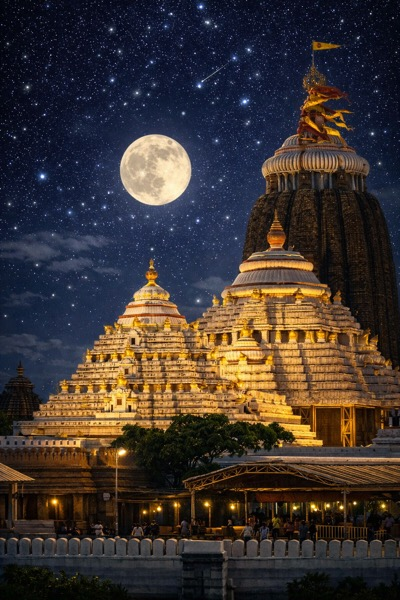
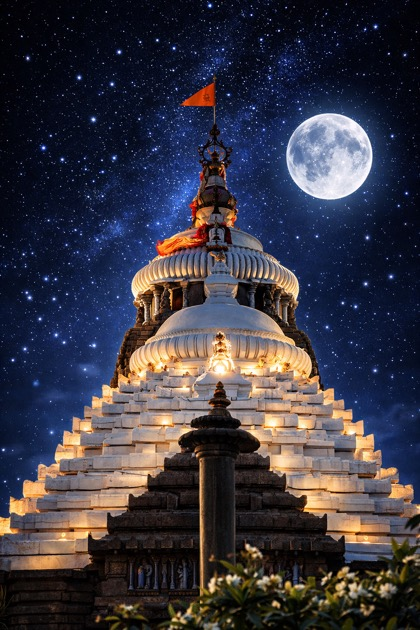
Add compressed og-preview.jpg (114KB) for WhatsApp link preview, update meta tags to use optimized image

diff --git a/invite.html b/invite.html
@@ -11,12 +11,12 @@
 <meta property="og:type" content="website">
 <meta property="og:title" content="Utsav & Ananya's Wedding Invitation">
 <meta property="og:description" content="You are cordially invited to the wedding of Utsav & Ananya — 19th June 2026, Bhubaneswar">
-<meta property="og:url" content="https://utsav1908.github.io/utsav-ananya-wedding/">
-<meta property="og:image" content="https://utsav1908.github.io/utsav-ananya-wedding/jgtemp.png">
-<meta property="og:image:secure_url" content="https://utsav1908.github.io/utsav-ananya-wedding/jgtemp.png">
-<meta property="og:image:type" content="image/png">
-<meta property="og:image:width" content="1024">
-<meta property="og:image:height" content="1536">
+<meta property="og:url" content="https://utsav1908.github.io/utsav-ananya-wedding/invite.html">
+<meta property="og:image" content="https://utsav1908.github.io/utsav-ananya-wedding/og-preview.jpg">
+<meta property="og:image:secure_url" content="https://utsav1908.github.io/utsav-ananya-wedding/og-preview.jpg">
+<meta property="og:image:type" content="image/jpeg">
+<meta property="og:image:width" content="420">
+<meta property="og:image:height" content="630">
 <meta property="og:image:alt" content="Utsav and Ananya Wedding Photo">
 
 <!-- Twitter Card -->
@@ -24,7 +24,7 @@
 <meta name="twitter:site" content="@utsav1908">
 <meta name="twitter:title" content="Utsav & Ananya's Wedding Invitation">
 <meta name="twitter:description" content="You are cordially invited to the wedding of Utsav & Ananya — 19th June 2026, Bhubaneswar">
-<meta name="twitter:image" content="https://utsav1908.github.io/utsav-ananya-wedding/jgtemp.png">
+<meta name="twitter:image" content="https://utsav1908.github.io/utsav-ananya-wedding/og-preview.jpg">
 
 <link rel="preconnect" href="https://fonts.googleapis.com">
 <link rel="preconnect" href="https://fonts.gstatic.com" crossorigin>
